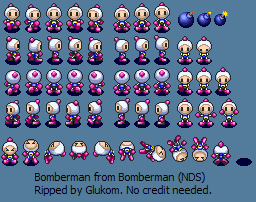
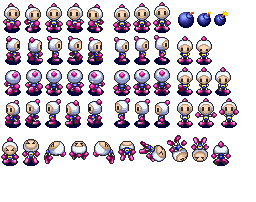
Fixed spritesheet image for bomberman. Pixel coordinates of bomberman spritesheet extracted. Player movement done.

diff --git a/ModulePlayer.cpp b/ModulePlayer.cpp
@@ -11,20 +11,48 @@ ModulePlayer::ModulePlayer(bool start_enabled) : Module(start_enabled)
 	// initial position of the player
 	position.x = 100;
 	position.y = 100;
+	
 	// idle animation
-	idle.frames.push_back({ 66, 1, 50, 50 });
-
+	idle.frames.push_back({ 113, 2, 17, 30 });
+	idle.frames.push_back({ 133, 2, 17, 30 });
+	idle.frames.push_back({ 153, 2, 17, 30 });
+	idle.speed = 0.075f;
+	
 	// walk right animation
-
-
+	walkRight.frames.push_back({ 5, 36, 17, 29 });
+	walkRight.frames.push_back({ 27, 36, 17, 29 });
+	walkRight.frames.push_back({ 47, 36, 17, 29 });
+	walkRight.frames.push_back({ 67, 36, 17, 29 });
+	walkRight.frames.push_back({ 87, 36, 17, 29 });
+	walkRight.frames.push_back({ 47, 36, 17, 29 });
+	walkRight.speed = 0.1f;
+	
 	// walk left animation
-
+	walkLeft.frames.push_back({ 5, 99, 15, 28 });
+	walkLeft.frames.push_back({ 25, 99, 15, 28 });
+	walkLeft.frames.push_back({ 45, 99, 15, 28 });
+	walkLeft.frames.push_back({ 65, 99, 15, 28 });
+	walkLeft.frames.push_back({ 87, 99, 15, 28 });
+	walkLeft.frames.push_back({ 45, 99, 15, 28 });
+	walkLeft.speed = 0.1f;
 
 	// walk up animation
-
+	walkUp.frames.push_back({ 4, 69, 17, 26 });
+	walkUp.frames.push_back({ 25, 69, 17, 26 });
+	walkUp.frames.push_back({ 45, 69, 17, 26 });
+	walkUp.frames.push_back({ 66, 69, 17, 26 });
+	walkUp.frames.push_back({ 88, 69, 17, 26 });
+	walkUp.frames.push_back({ 45, 69, 17, 26 });
+	walkUp.speed = 0.1f;
 
 	// walk down animation
-
+	walkDown.frames.push_back({ 3, 3, 17, 29 });
+	walkDown.frames.push_back({ 24, 3, 17, 29 });
+	walkDown.frames.push_back({ 45, 3, 17, 29 });
+	walkDown.frames.push_back({ 66, 3, 17, 29 });
+	walkDown.frames.push_back({ 87, 3, 17, 29 });
+	walkDown.frames.push_back({ 45, 3, 17, 29 });
+	walkDown.speed = 0.1f;
 }
 
 ModulePlayer::~ModulePlayer()
@@ -60,30 +88,37 @@ update_status ModulePlayer::Update()
 	if (App->input->GetKey(SDL_SCANCODE_A) == KEY_REPEAT)
 	{
 		position.x -= speed;
+		current_animation = &walkLeft;
 		//collider->rect = { position.x, position.y, 30, 10 };
 	}
 
 	if (App->input->GetKey(SDL_SCANCODE_D) == KEY_REPEAT)
 	{
 		position.x += speed;
+		current_animation = &walkRight;
 		//collider->rect = { position.x, position.y, 30, 10 };
 	}
 
 	if (App->input->GetKey(SDL_SCANCODE_S) == KEY_REPEAT)
 	{
 		position.y += speed;
-
+		current_animation = &walkDown;
 		//collider->rect = { position.x, position.y, 30, 10 };
 	}
 
 	if (App->input->GetKey(SDL_SCANCODE_W) == KEY_REPEAT)
 	{
 		position.y -= speed;
-
+		current_animation = &walkUp;
 		//collider->rect = { position.x, position.y, 30, 10 };
 	}
 
-	current_animation = &idle;
+	if (App->input->GetKey(SDL_SCANCODE_S) == KEY_IDLE
+		&& App->input->GetKey(SDL_SCANCODE_W) == KEY_IDLE
+		&& App->input->GetKey(SDL_SCANCODE_A) == KEY_IDLE
+		&& App->input->GetKey(SDL_SCANCODE_D) == KEY_IDLE)
+			current_animation = &idle;
+
 	// Draw everything --------------------------------------
 	if (destroyed == false)
 		App->renderer->Blit(graphics, position.x, position.y, &(current_animation->GetCurrentFrame()));

diff --git a/ModulePlayer.h b/ModulePlayer.h
@@ -22,8 +22,10 @@ public:
 	SDL_Texture* graphics = nullptr;
 	Animation* current_animation = nullptr;
 	Animation idle;
-	Animation up;
-	Animation down;
+	Animation walkLeft;
+	Animation walkRight;
+	Animation walkUp;
+	Animation walkDown;
 	iPoint position;
 	bool destroyed = false;
 };

diff --git a/Application.cpp b/Application.cpp
@@ -52,7 +52,7 @@ bool Application::Init()
 	}
 
 	// Start the first scene --
-	fade->FadeToBlack(scene_menu, nullptr, 3.0f);
+	fade->FadeToBlack(scene_level, nullptr, 3.0f);
 
 	return ret;
 }
